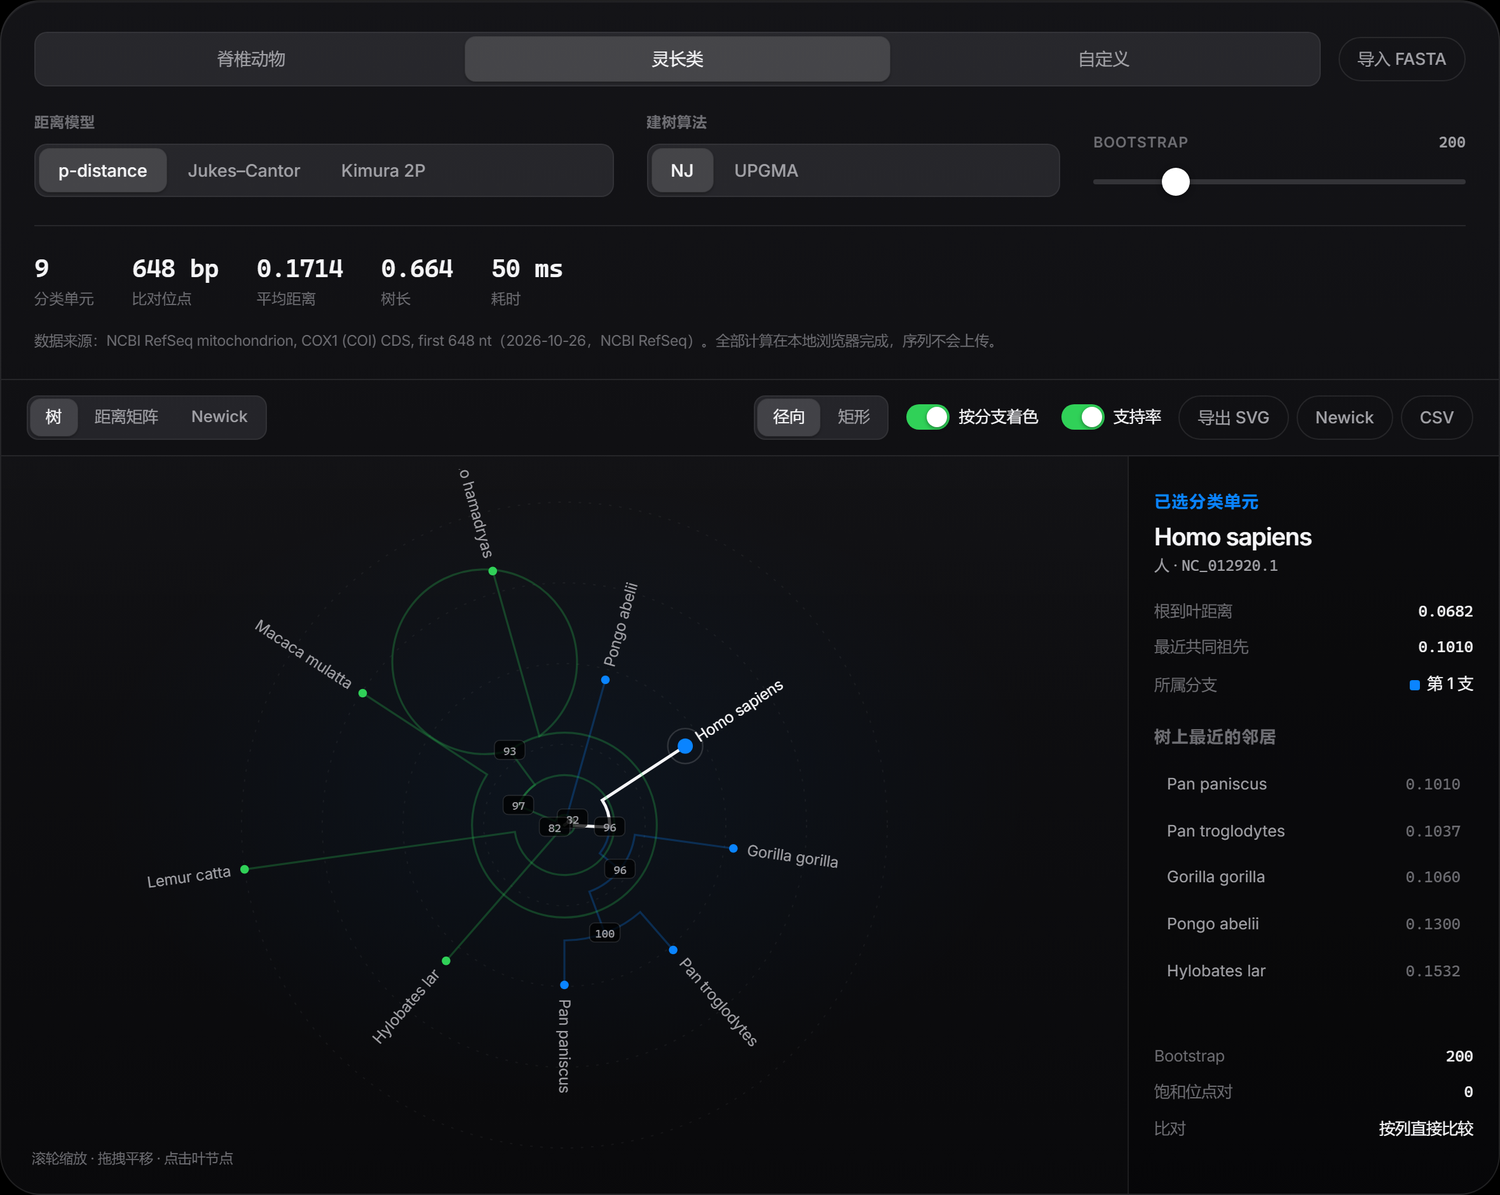
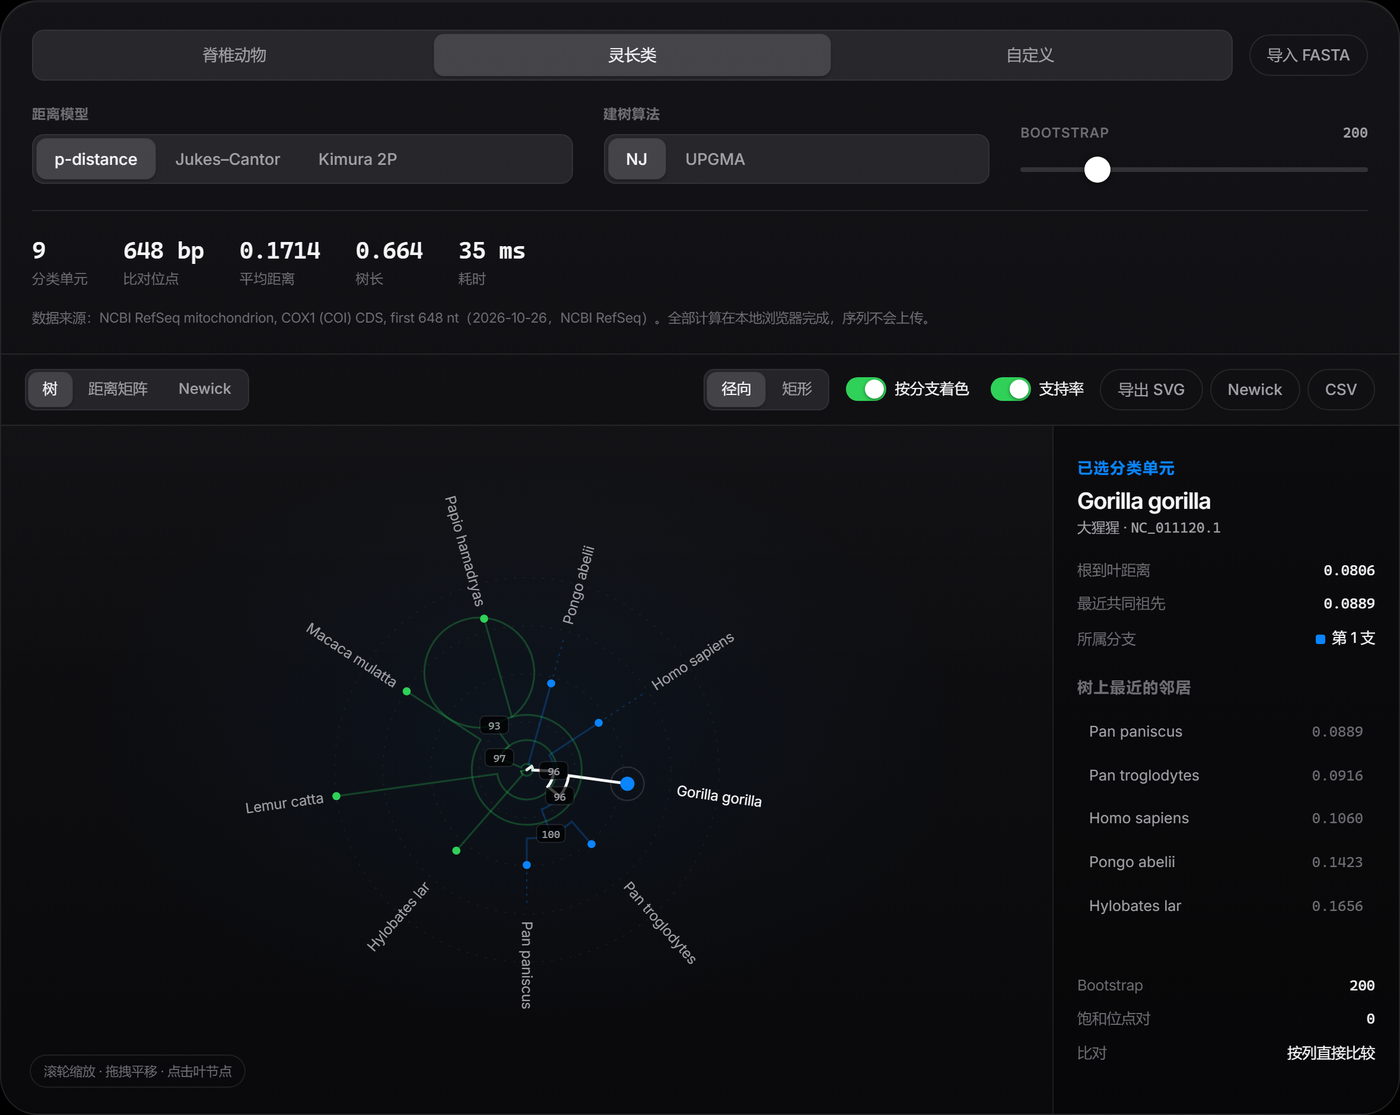
style(tree): 把缩放提示做成毛玻璃胶囊，小屏收窄
原来是一行裸文字贴在画布左下角，和树干重叠时读不清。改成半透明胶囊后
在任何背景上都能读；手机上提示语仍保留但更紧凑。

顺带刷新叶节点面板与矩阵的文档截图。

diff --git a/src/styles.css b/src/styles.css
@@ -950,11 +950,25 @@ input[type='range']::-moz-range-thumb {
 
 .tree-hint {
   position: absolute;
-  bottom: 10px;
+  bottom: 12px;
   left: 14px;
+  padding: 5px 11px;
+  border-radius: 980px;
   font-size: 11px;
   color: var(--text-3);
+  background: rgba(10, 10, 12, 0.72);
+  border: 1px solid var(--hairline);
+  backdrop-filter: blur(12px);
+  -webkit-backdrop-filter: blur(12px);
   pointer-events: none;
+}
+
+@media (max-width: 780px) {
+  /* A phone has no wheel and no hover, so only the tap hint is true there. */
+  .tree-hint {
+    font-size: 10.5px;
+    padding: 4px 9px;
+  }
 }
 
 .tree-reset {
